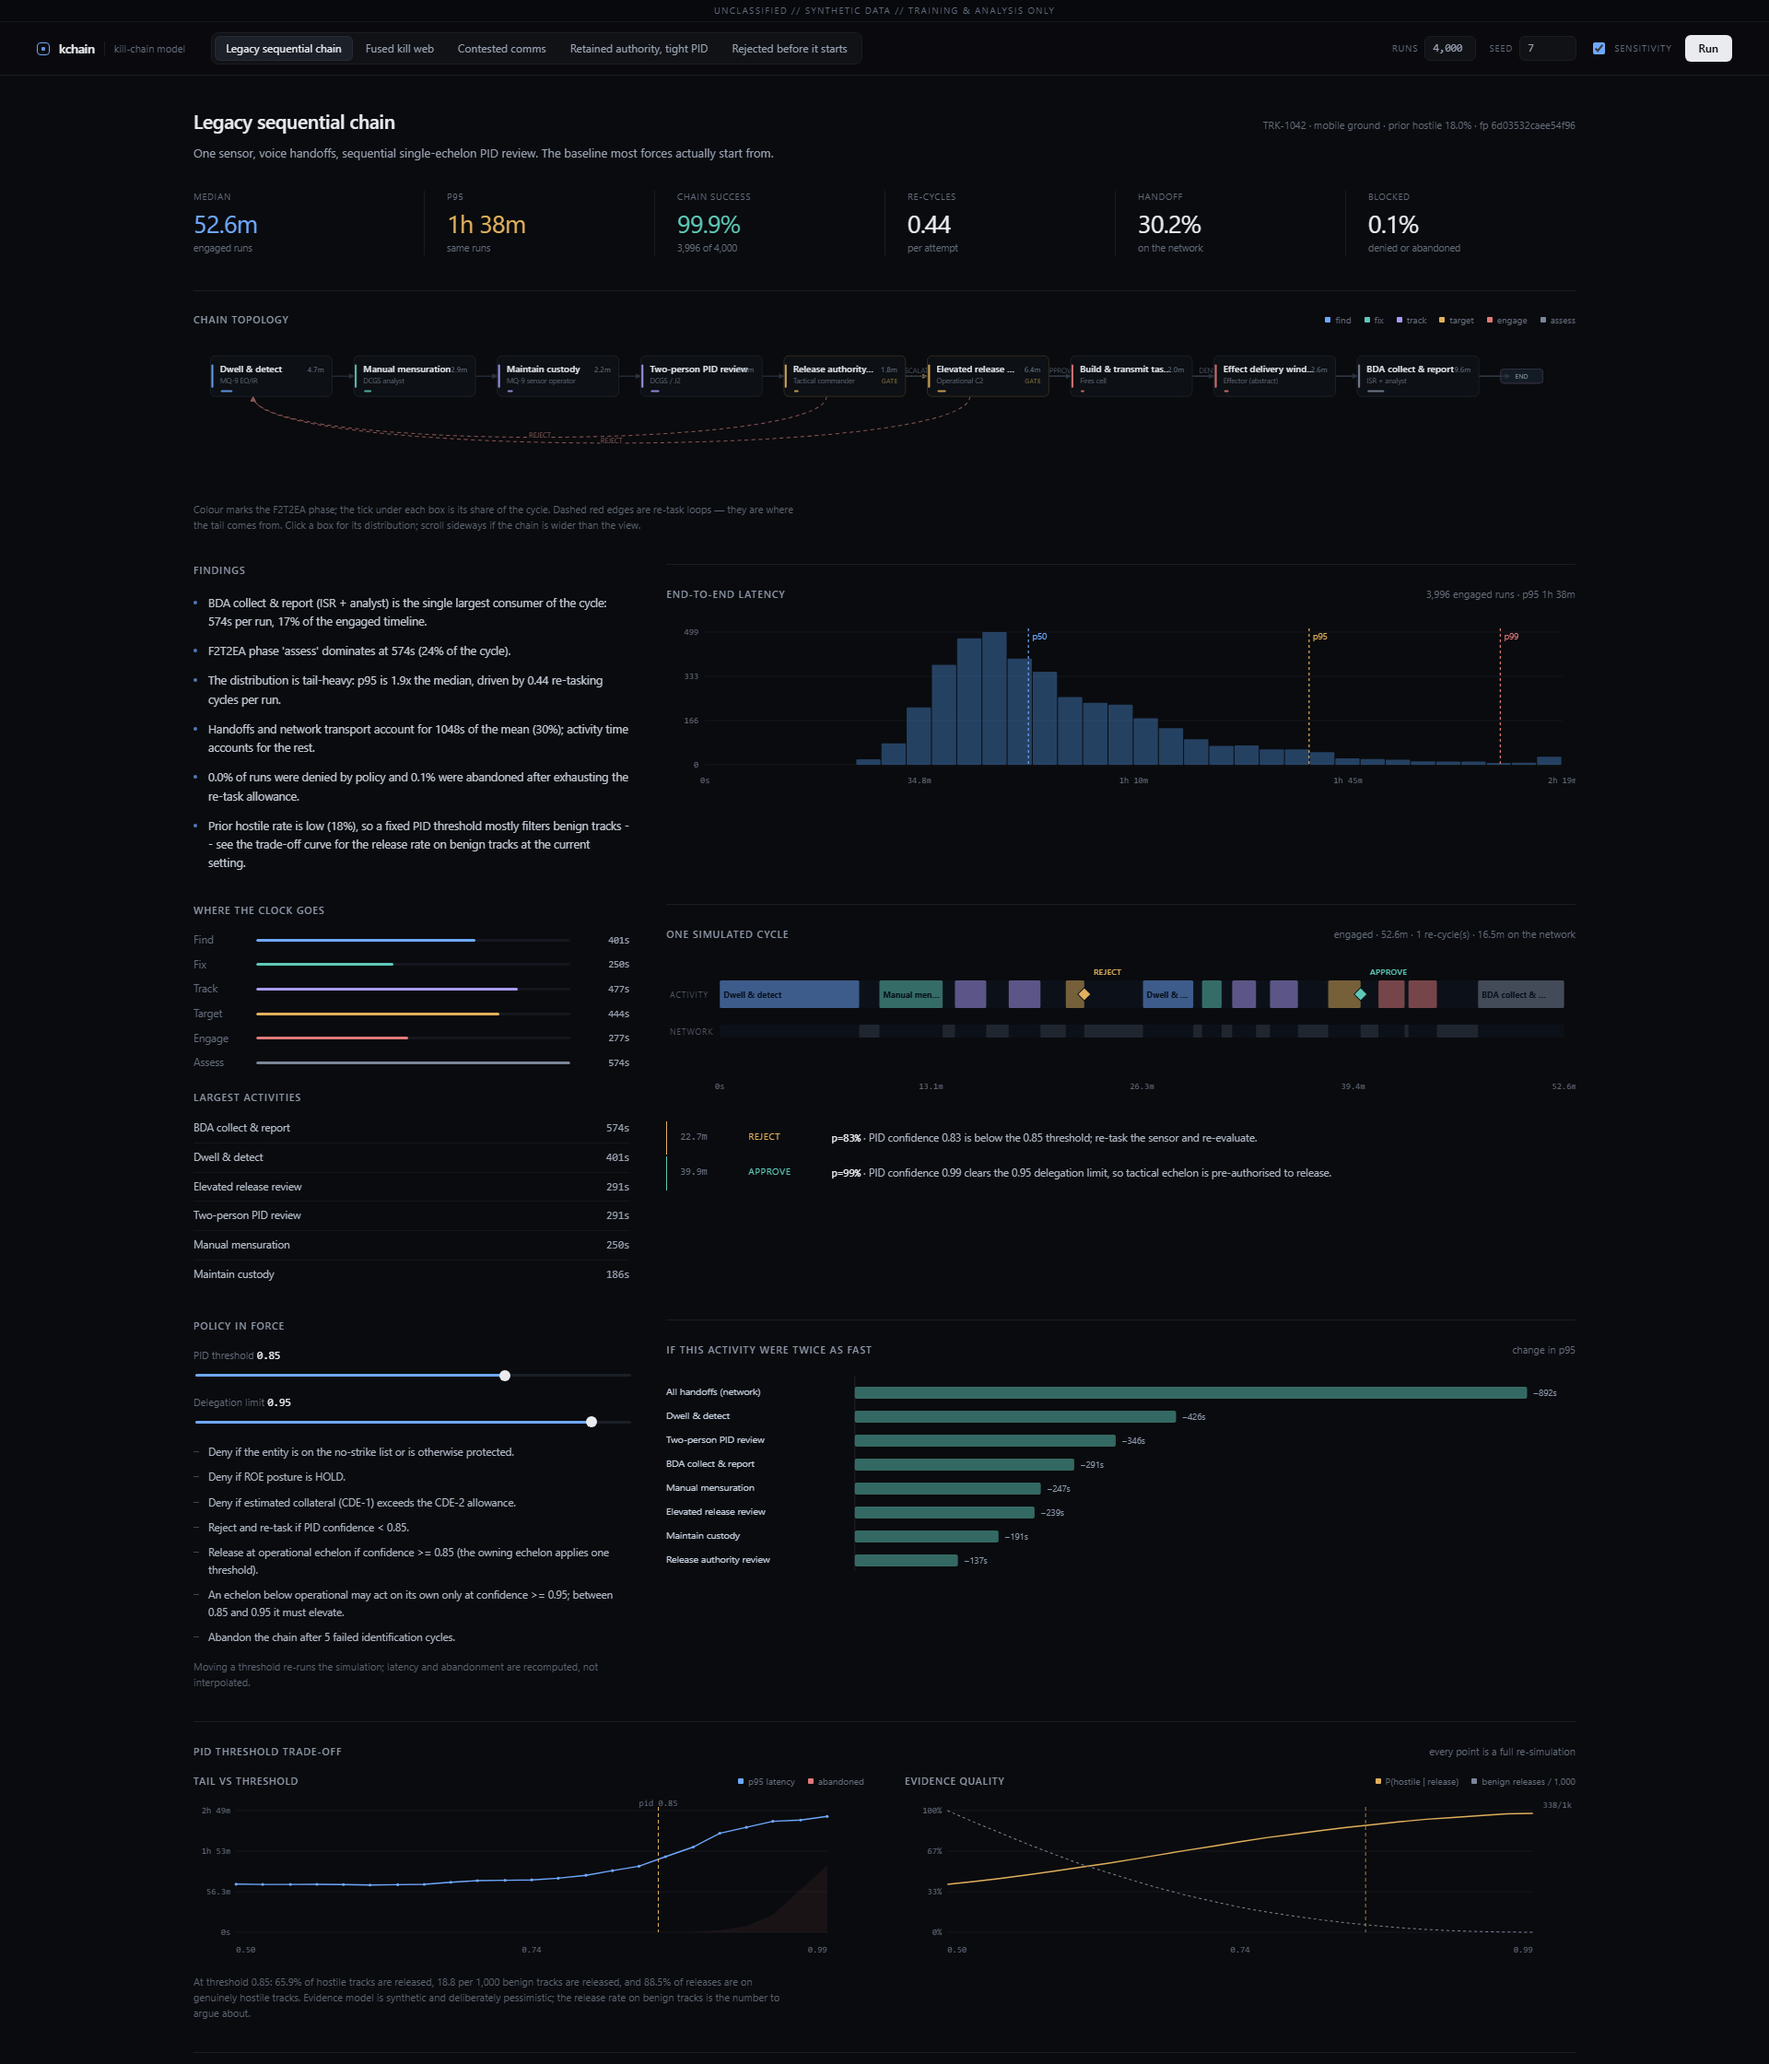
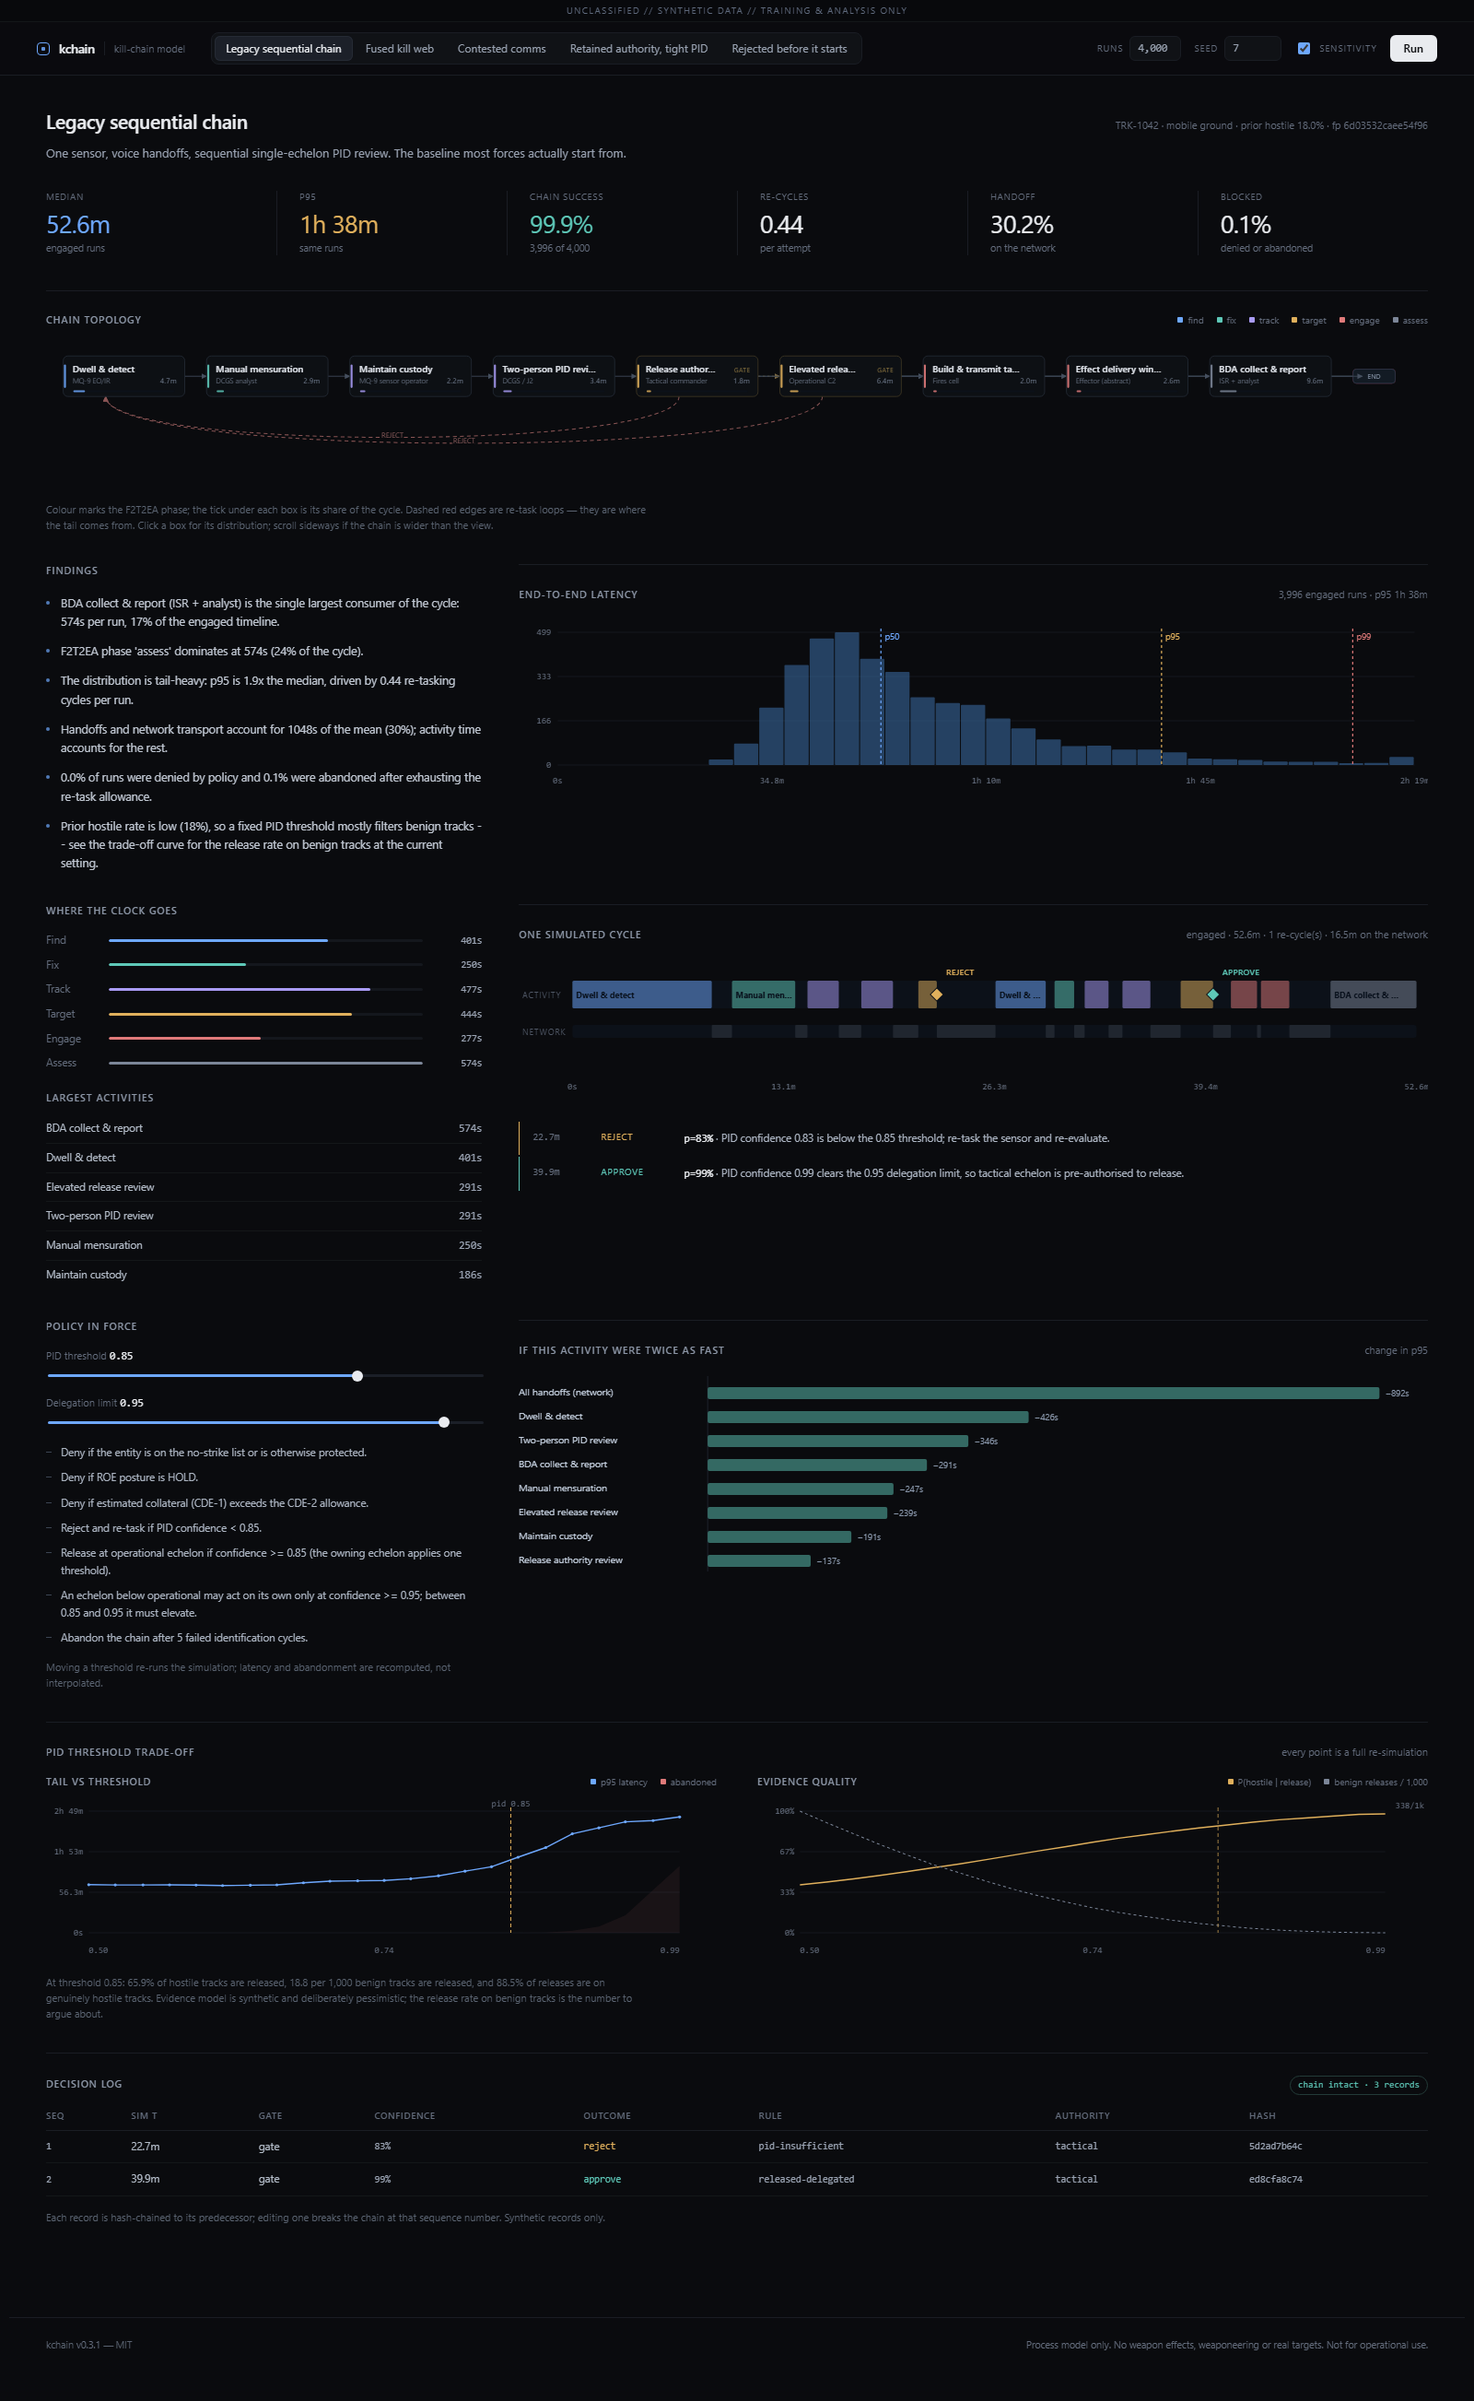
Refresh README screenshots; fix graph label collisions
- two console screenshots: the baseline chain, and the retained-authority
  branch in 04-tight-roe
- node mean time moved to the secondary line, so long activity names no
  longer run into it; GATE sits opposite the name on decision nodes
- forward gate labels dropped from the graph (ESCALATE overflowed the 28px
  gap between boxes); the re-task loop keeps its REJECT label and gate
  outcomes remain on the timeline
- remove a duplicate \rrow\ marker definition that shadowed the intended
  edge colour and left the connectors almost invisible
- tools/trim_shots.py: crop full-page screenshots to their content

diff --git a/web/app.js b/web/app.js
@@ -348,8 +348,7 @@ function renderGraph(report) {
 
   const defs = svgEl('defs');
   const markers = [
-    ['arrow', '#2c333e'],
-    ['arrow', '#3a4351'],
+    ['arrow', '#454f5e'],
     ['arrow-recycle', '#8a5555'],
     ['arrow-escalate', '#7a6742'],
   ];
@@ -376,7 +375,7 @@ function renderGraph(report) {
   for (const edge of layout.edges) {
     const a = pos[edge.from];
     if (!a) continue;
-    const colour = edge.recycle ? '#8a5555' : edge.label === 'escalate' ? '#7a6742' : '#313947';
+    const colour = edge.recycle ? '#8a5555' : edge.label === 'escalate' ? '#7a6742' : '#3a4352';
     const markerId = edge.recycle ? 'arrow-recycle' : edge.label === 'escalate' ? 'arrow-escalate' : 'arrow';
     const dash = edge.recycle ? '5 4' : edge.label === 'escalate' ? '3 3' : null;
 
@@ -457,8 +456,10 @@ function renderGraph(report) {
     );
     edgeLayer.appendChild(pathNode);
 
+    // Only labels that fit the 28px gap between boxes: the re-task loop is
+    // called out explicitly, forward-gate labels live on the timeline instead.
     const parts = [];
-    if (edge.label && edge.label !== 'flow') parts.push(edge.label.toUpperCase());
+    if (edge.recycle) parts.push('REJECT');
     if (edge.p !== null && edge.p !== undefined && edge.p < 1) parts.push(`p=${edge.p}`);
     if (parts.length) {
       edgeLayer.appendChild(
@@ -502,7 +503,7 @@ function renderGraph(report) {
         height: GEO.NH,
         rx: 6,
         fill: '#0d1014',
-        stroke: node.kind === 'decision' ? '#3a3222' : '#1f242c',
+        stroke: node.kind === 'decision' ? '#3f3623' : '#242b35',
         'stroke-width': 1,
       }),
     );
@@ -521,14 +522,14 @@ function renderGraph(report) {
       svgEl(
         'text',
         { x: x + 12, y: y + 21, fill: '#dfe3ea', 'font-size': 12, 'font-weight': 500 },
-        truncate(node.label, node.kind === 'decision' ? 18 : 21),
+        truncate(node.label, node.kind === 'decision' ? 15 : 20),
       ),
     );
     group.appendChild(
       svgEl(
         'text',
         { x: x + 12, y: y + 35, fill: '#5f6877', 'font-size': 9 },
-        truncate(node.actor || node.kind, node.kind === 'decision' ? 19 : 27),
+        truncate(node.actor || node.kind, 21),
       ),
     );
     group.appendChild(
@@ -536,7 +537,7 @@ function renderGraph(report) {
         'text',
         {
           x: x + GEO.NW - 10,
-          y: y + 21,
+          y: y + 35,
           'text-anchor': 'end',
           fill: '#6f7a8c',
           'font-size': 10,
@@ -551,7 +552,7 @@ function renderGraph(report) {
           'text',
           {
             x: x + GEO.NW - 10,
-            y: y + 35,
+            y: y + 21,
             'text-anchor': 'end',
             fill: '#8a7440',
             'font-size': 8,

diff --git a/tools/trim_shots.py b/tools/trim_shots.py
@@ -1,0 +1,42 @@
+"""Trim trailing background rows from the console screenshots."""
+
+import pathlib
+import sys
+
+from PIL import Image
+
+BG = (10, 11, 14)  # --bg
+PAD = 56
+
+
+def is_background(pixel) -> bool:
+    return all(abs(a - b) <= 2 for a, b in zip(pixel, BG))
+
+
+def trim(source: str, target: str) -> None:
+    image = Image.open(source).convert("RGB")
+    width, height = image.size
+    pixels = image.load()
+
+    last = height - 1
+    for y in range(height - 1, -1, -1):
+        if any(not is_background(pixels[x, y]) for x in range(0, width, 11)):
+            last = y
+            break
+
+    bottom = min(height, last + PAD)
+    cropped = image.crop((0, 0, width, bottom))
+    pathlib.Path(target).parent.mkdir(parents=True, exist_ok=True)
+    cropped.save(target, optimize=True)
+    print(f"{target}: {width}x{bottom} ({pathlib.Path(target).stat().st_size // 1024} KB)")
+
+
+if __name__ == "__main__":
+    args = sys.argv[1:]
+    pairs = (
+        list(zip(args[0::2], args[1::2]))
+        if args
+        else [("raw-01.png", "docs/console.png"), ("raw-04.png", "docs/console-branch.png")]
+    )
+    for source, target in pairs:
+        trim(source, target)

diff --git a/README.md b/README.md
@@ -4,7 +4,7 @@ A **kill-chain latency and authority simulator**: it models a targeting cycle as
 stochastic graph, runs it thousands of times, and shows you where the time
 actually goes — and why the answer is almost never "the sensor".
 
-![Analyst console](docs/console.png)
+![The analyst console: scenario KPIs, chain topology, latency distribution, one-run timeline and the PID threshold trade-off](docs/console.png)
 
 No weapons. No weaponeering. No real targets. A process model, a policy engine
 and an audit trail, over synthetic data. See [docs/SCOPE.md](docs/SCOPE.md) for
@@ -61,6 +61,12 @@ Same target class, different machines. All synthetic.
 | `05-cde-denied` | scenario 04 where the collateral estimate exceeds the allowance | — | — | — | **100%** |
 
 20,000 runs each, seed 7. Reproduce with `python tools/headline.py`.
+
+![Retained authority, tight PID: the escalation branch and the staff package it adds](docs/console-branch.png)
+
+*`04-tight-roe` in the console. The branch after the tactical gate is the
+escalation path: 40% of proposals leave for operational C2, which then applies the
+same numeric threshold to the same evidence package.*
 
 ## What the model actually shows
 
